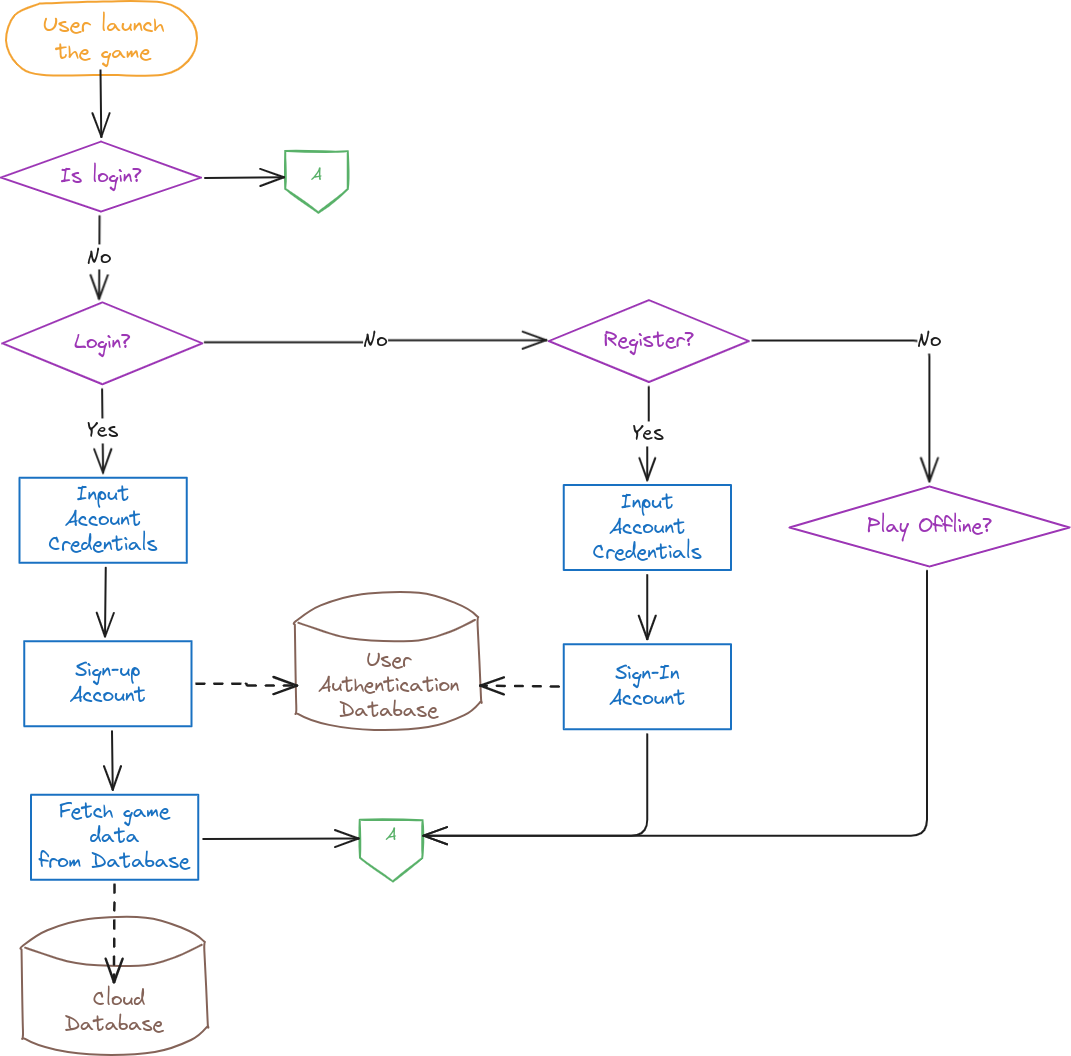
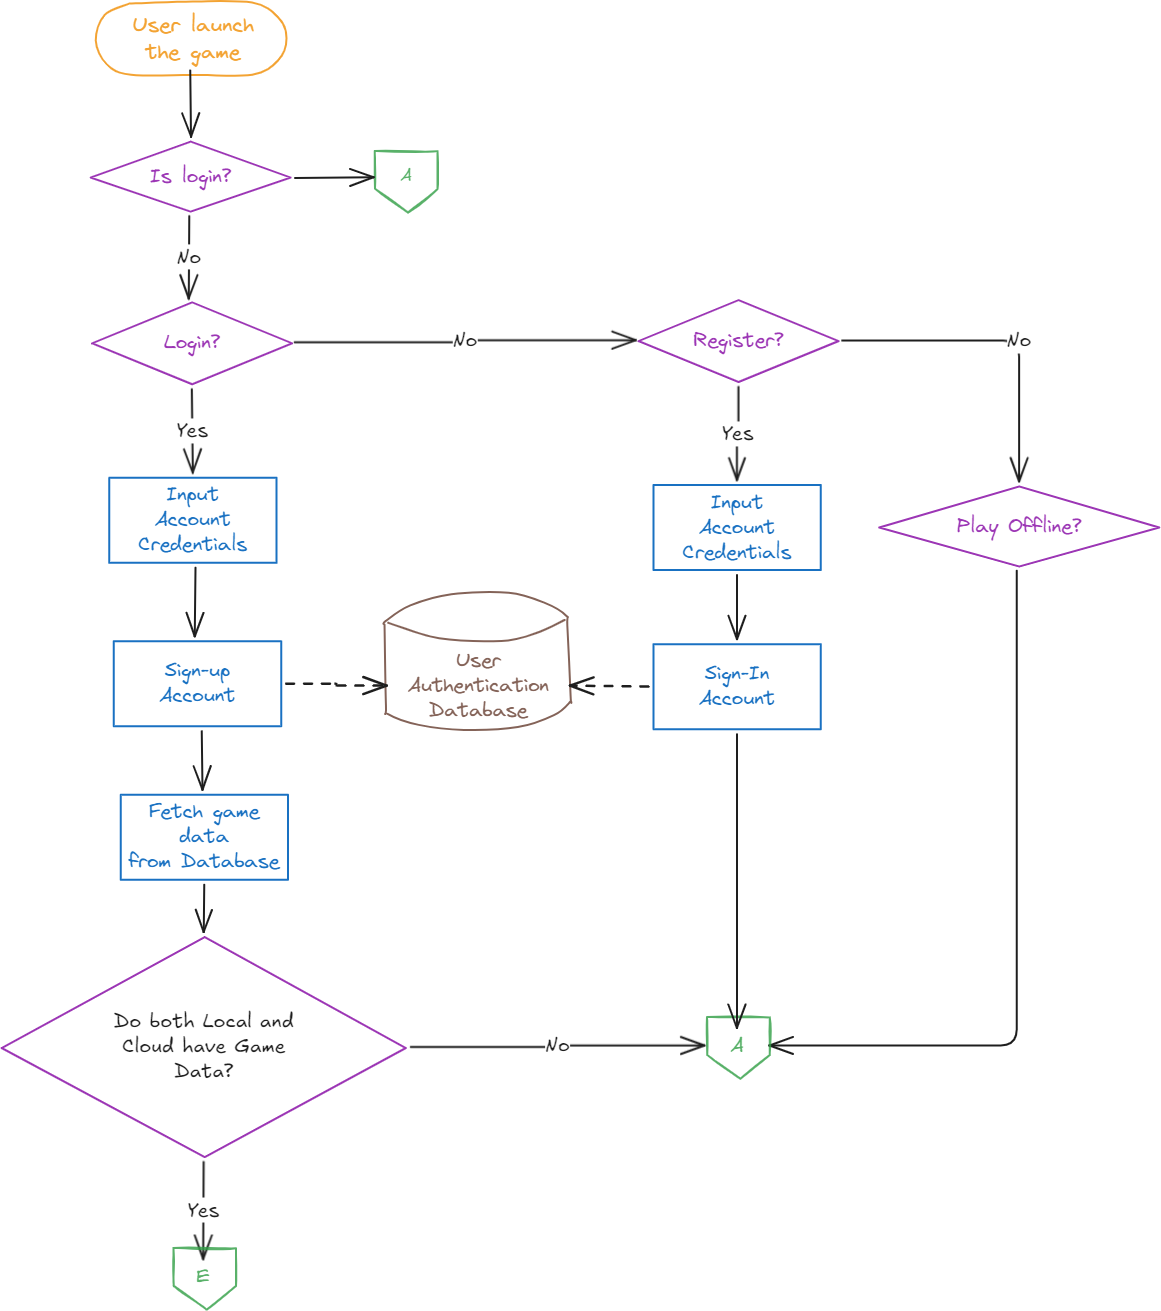
revise and update

diff --git a/docs/Proposal.md b/docs/Proposal.md
@@ -1,0 +1,51 @@
+# System Project Proposal
+
+## CodeWorm: The Coding Adventure
+
+### Description
+
+CodeWorm: The Coding Adventure is a tile-based coding RPG that teaches programming fundamentals using Python through interactive challenges. Players connect code tiles to solve problems, unlock new programming concepts, and engage in turn-based combat with enemies. Each level introduces a new concept, such as variables, loops, or functions, encouraging players to practice and apply their Python skills in an engaging, story-driven format.
+
+### Target Users
+
+- Students are learning programming for the first time.
+- Self-learners seeking a fun and structured way to learn coding.
+- Educators are looking for an interactive tool to teach programming concepts.
+
+### Target Deliverables
+
+#### Tile-Based Coding Challenges
+
+- Players use tiles representing programming keywords, syntax, and commands to construct code.
+- A set level introduces a new concept (e.g., variables, loops, math operators), followed by coding challenges and problem-solving exercises to reinforce learning.
+- Players progress by solving coding puzzles and facing enemies that test their understanding.
+
+#### Feedback and Assistance
+
+- Players receive feedback when running their code.
+- Debugging assistance, such as hints and suggestions, helps players correct errors and improve their coding skills.
+- A built-in error message system helps players understand what went wrong and how to fix it.
+
+#### Game Progression and Rewards
+
+- Players earn achievements for mastering concepts, completing levels, and solving coding problems.
+- Level completion is tracked, with performance analytics to help players what they have learned.
+- Players can unlock skins as they progress, providing a sense of accomplishment and motivation.
+
+#### Entities (Enemies, Allies, and Bosses)
+
+- Enemies: Each level has an enemy that represents a challenge related to the current programming concept.
+- Allies: Some levels have allies that help teach programming concepts. These allies guide players through new concepts and provide them with tips or tutorials.
+- Bosses: Boss battles occur when the player has to face complex coding challenges that combine many learned concepts (like algorithms or data structures). These bosses test the player's ability to apply knowledge to solve difficult problems.
+
+### Integrated System: Cloud Service (Supabase)
+
+This game integrates with Supabase, a cloud-based service that enhances the user experience by providing secure account management, progress tracking, and cross-device synchronization.
+
+#### Implementation of Services
+
+- Achievements & Milestones: Tracks progress through the game, awarding achievements for mastering programming concepts, completing levels, and solving challenges.
+- Leaderboards: Ranks players based on performance, including speed, accuracy, and coding efficiency, encouraging friendly competition.
+- Account Authentication: Players can securely create and manage accounts to save their progress, unlock features, and customize their experience.
+- Data Sync: Ensures that player progress, achievements, and settings are synchronized across devices, preventing data loss and allowing players to continue seamlessly.
+- Cross-Device Access: Players can log in on any device and continue where they left off, ensuring a smooth and flexible learning experience.

diff --git a/docs/fleetings/Concepts and Scenarios.md b/docs/fleetings/Concepts and Scenarios.md
@@ -1,0 +1,3 @@
+# Concepts and Scenarios
+
+In the game, Concept Scenarios are a series of progressively complex programming problems designed to teach and reinforce each concept. Each concept is divided into multiple levels, with each level introducing a new way to apply the concept. Level 1 presents the most basic usage of the concept, while subsequent levels introduce variations and more advanced applications. This structure ensures that players not only learn but also master the concept by revisiting it in different contexts, solidifying their understanding through continuous practice and problem-solving. The design encourages learners to repeatedly apply the concept in different ways, ensuring deeper comprehension and retention.

diff --git a/docs/Features.md b/docs/Features.md
@@ -1,5 +1,7 @@
 # Game Document
 
+Game Name: Code Conquest: The adventure game
+
 ## Game Mechanics
 
 ### Tile-Based Coding System

diff --git a/docs/Leaderboards Content Simplified.md b/docs/Leaderboards Content Simplified.md
@@ -1,4 +1,4 @@
-# Leaderboard Metrics
+# Leaderboards
 
 ## Per-Level Scores
 
